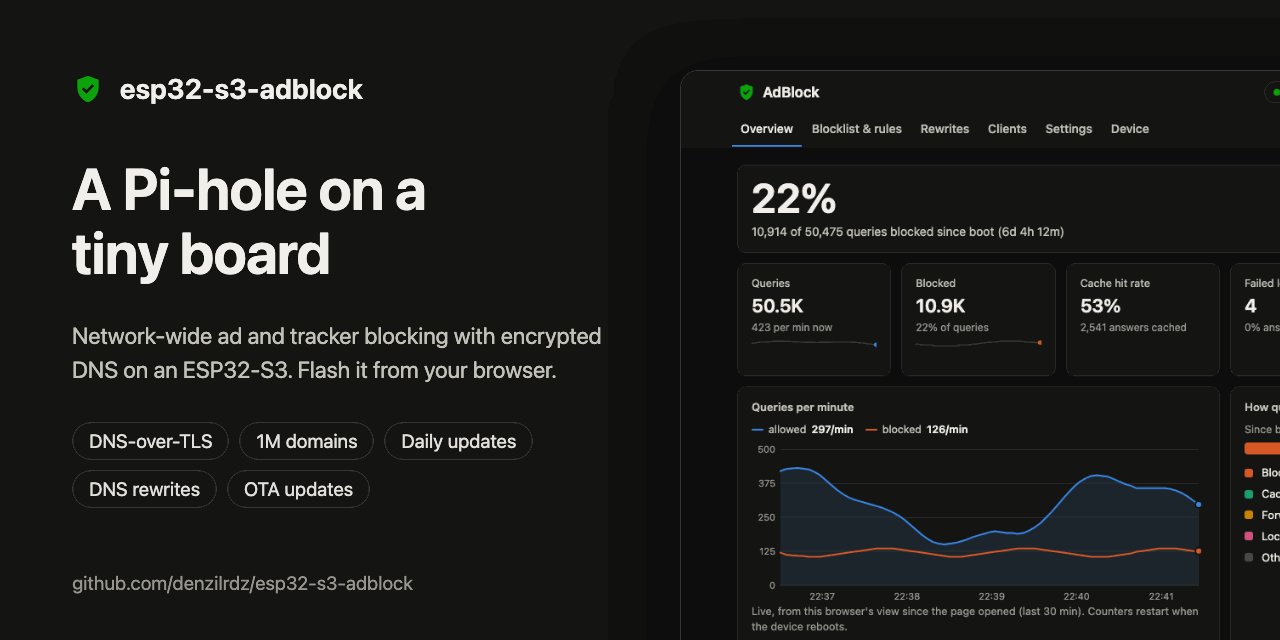
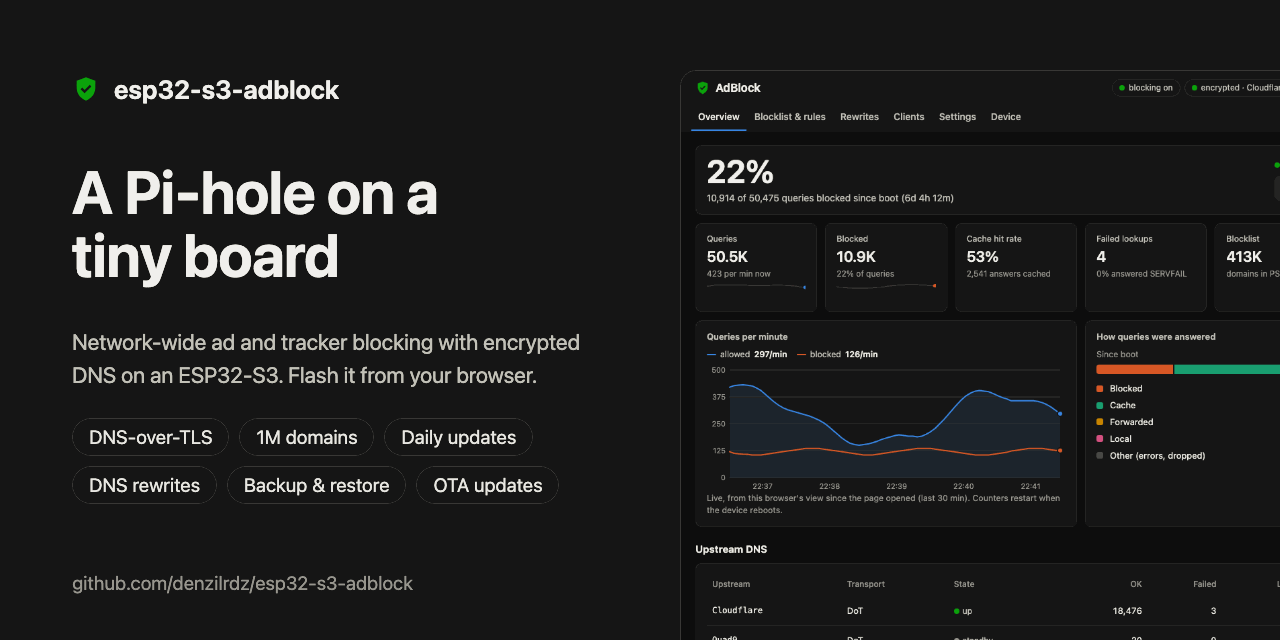
docs: refresh the link-preview card with backup and restore

diff --git a/CHANGELOG.md b/CHANGELOG.md
@@ -6,6 +6,10 @@ All notable changes to this project are documented here. The format follows
 
 ## [Unreleased]
 
+### Changed
+
+- The link-preview card (installer site and GitHub) also lists backup and restore.
+
 ## [0.4.0] - 2026-11-07
 
 Settings backup and restore, an optional scheduled reboot, and dropdowns instead of
